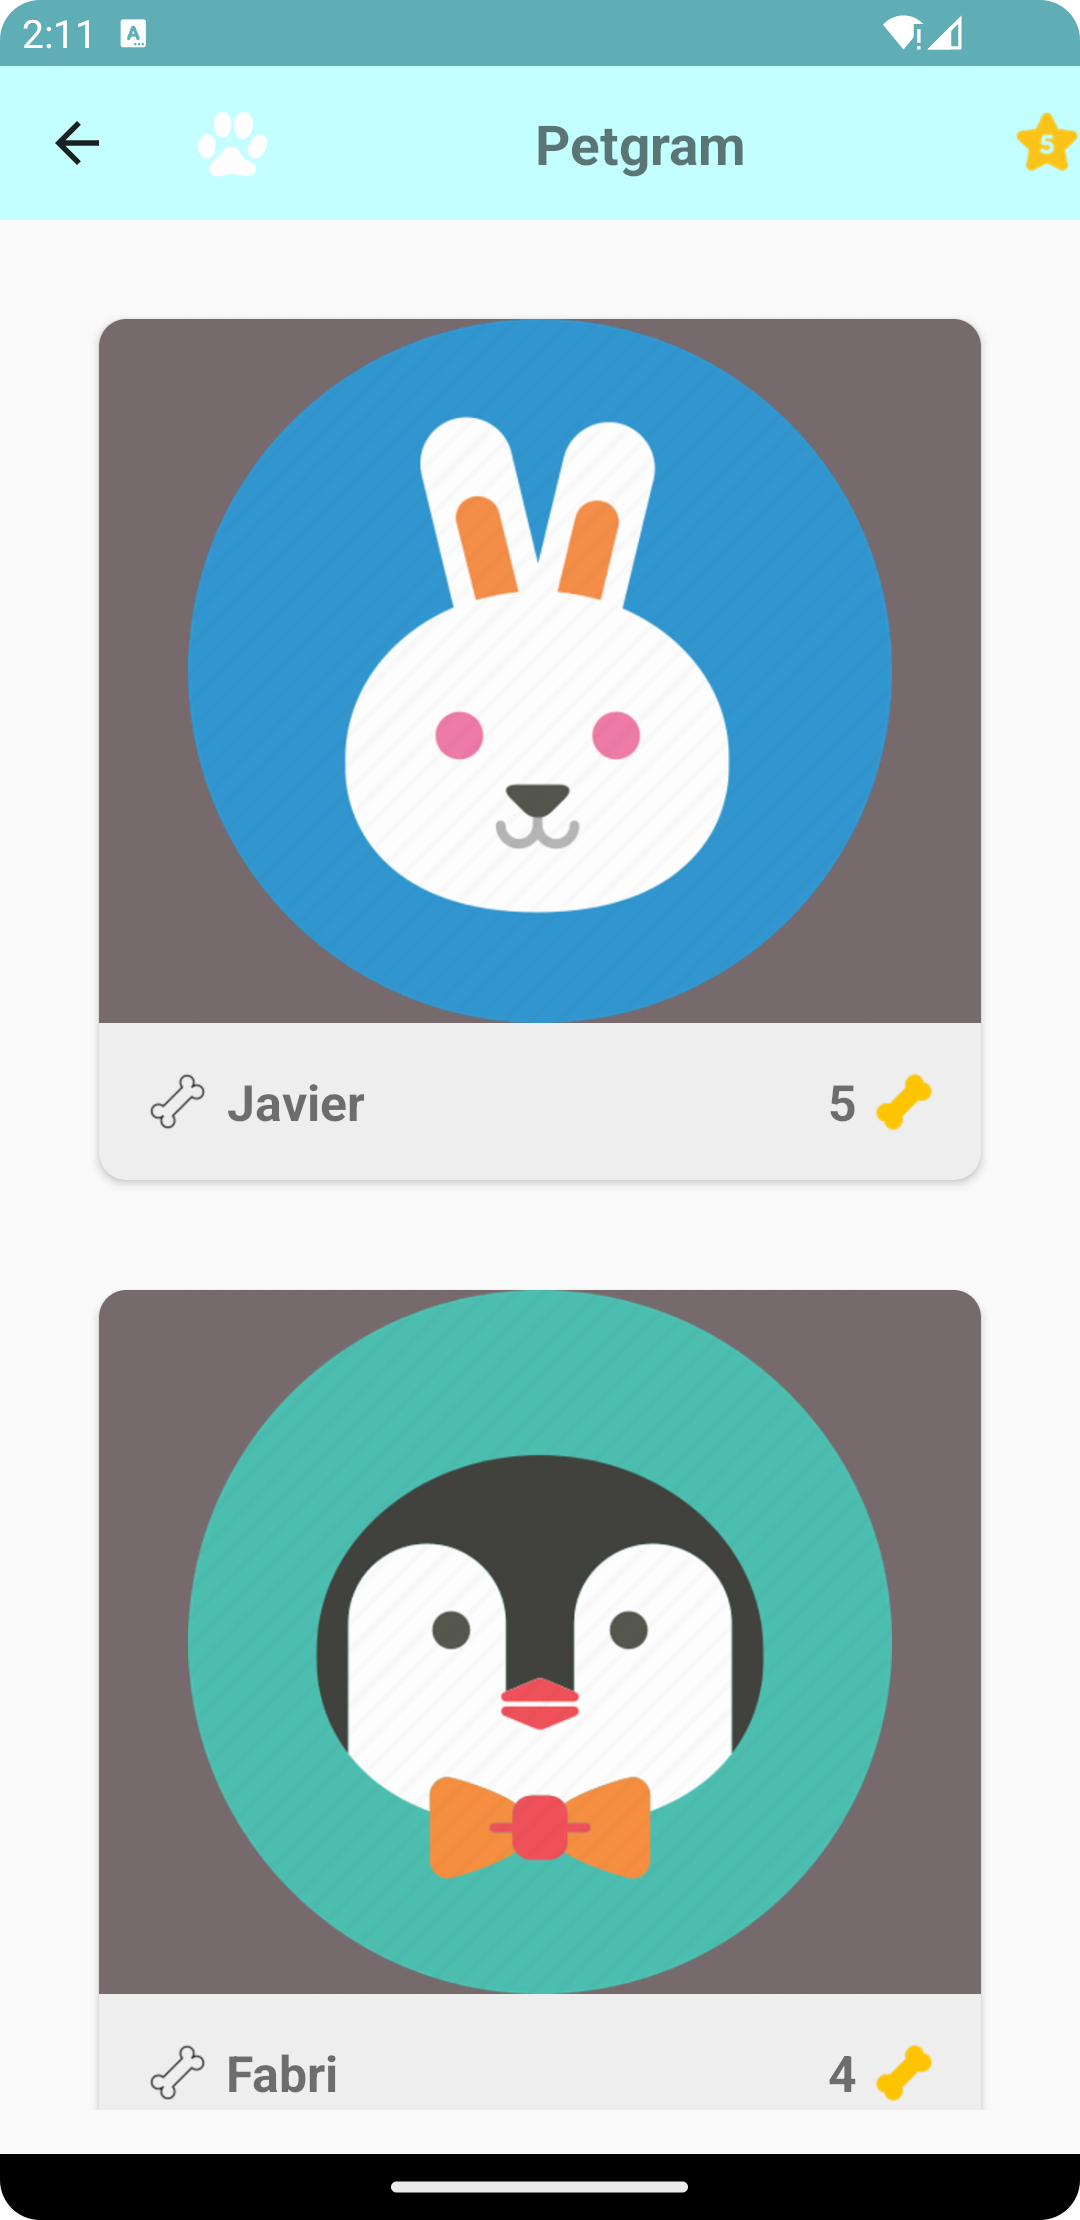
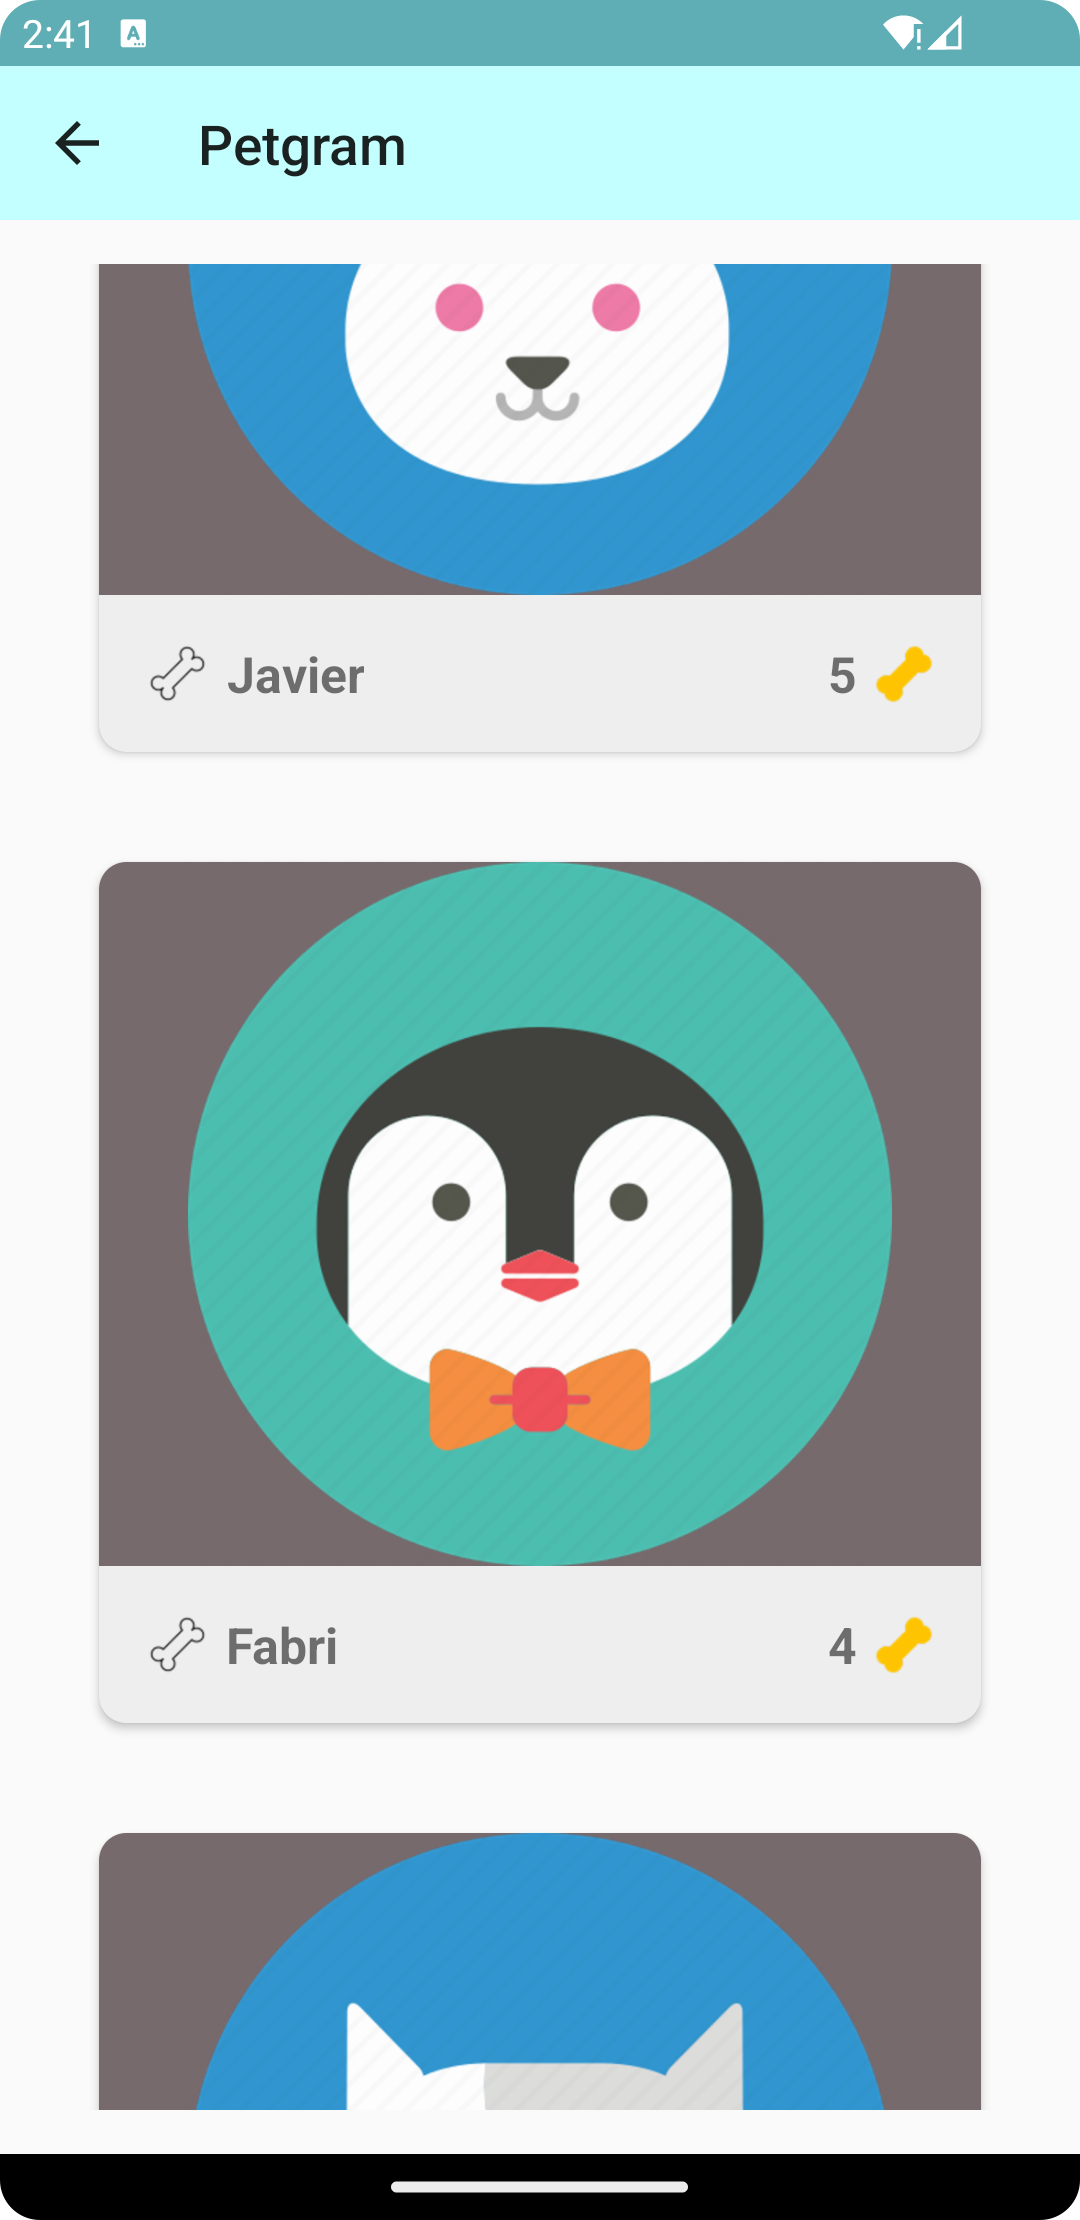
tarea 3

diff --git a/app/src/main/java/com/example/myapplication/CincoFavoritos.java b/app/src/main/java/com/example/myapplication/CincoFavoritos.java
@@ -9,6 +9,7 @@ import androidx.recyclerview.widget.RecyclerView;
 
 import android.os.Build;
 import android.os.Bundle;
+import android.widget.ImageButton;
 
 import java.util.ArrayList;
 import java.util.Collections;
@@ -27,9 +28,15 @@ public class CincoFavoritos extends AppCompatActivity {
         setContentView(R.layout.activity_cinco_favoritos);
 
         Toolbar toolbar = (Toolbar) findViewById(R.id.miActionBar);
+
+        toolbar.removeAllViews();
+
         setSupportActionBar(toolbar);
 
+
         getSupportActionBar().setDisplayHomeAsUpEnabled(true);
+
+
 
         mascotasFavoritos();
 
